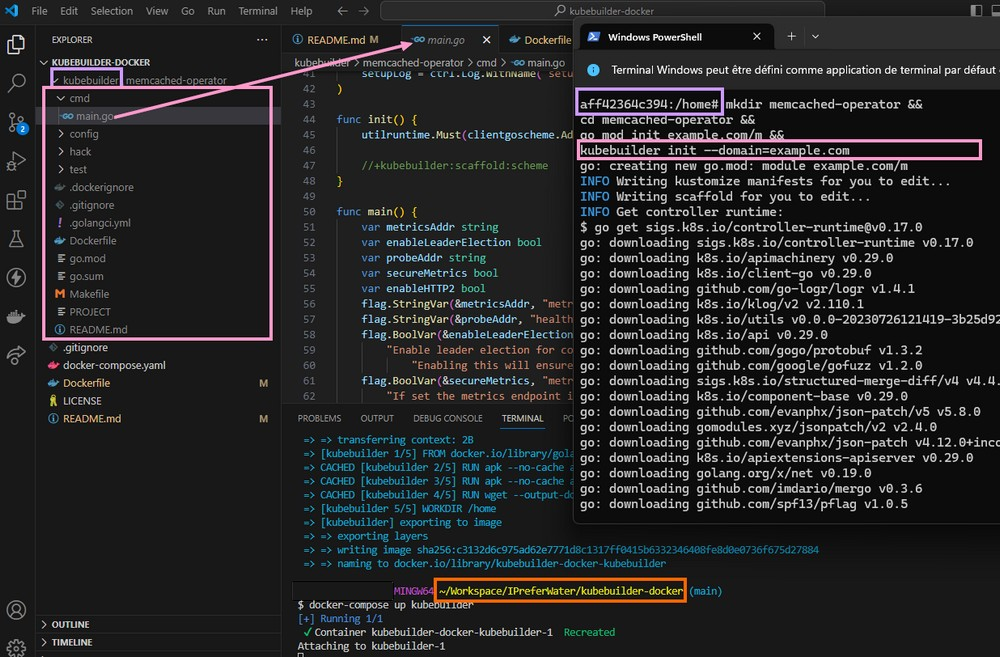
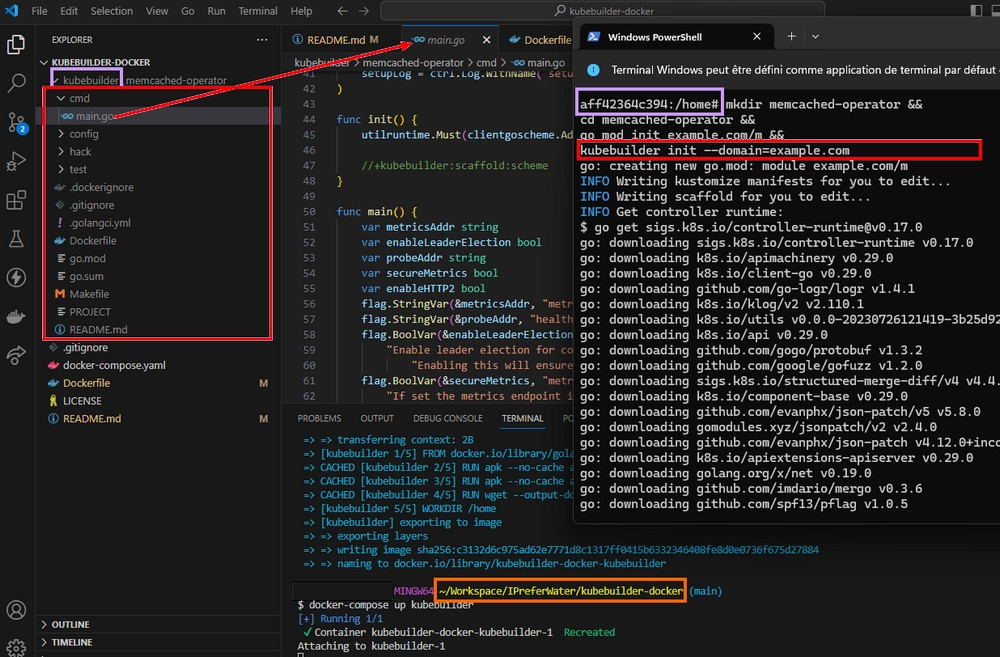
feat(main): try to add colors in readme.md

Changed region(s): [[0.031, 0.0913, 0.341, 0.5175], [0.558, 0.2131, 0.992, 0.2435], [0.341, 0.0609, 0.403, 0.0913]]

diff --git a/README.md b/README.md
@@ -43,3 +43,8 @@ kubebuilder init --domain=example.com
 
 <span style="color:purple;">local kubebuilder folder is bounded to /home of the container</span>
 <span style="color:pink;">code generated on container can be seen on your local IDE</span>
+
+```diff
+- code generated on container can be seen on your local IDE
+@@ local kubebuilder folder is bounded to /home of the container@@
+```
